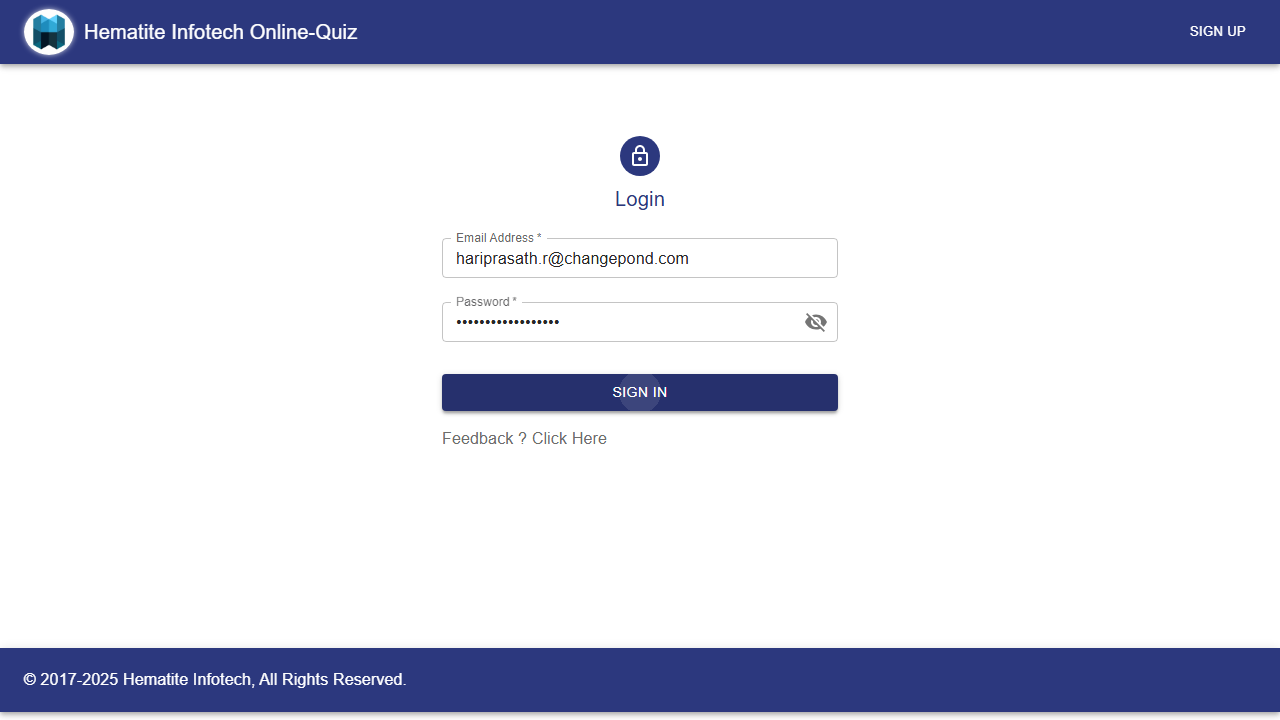
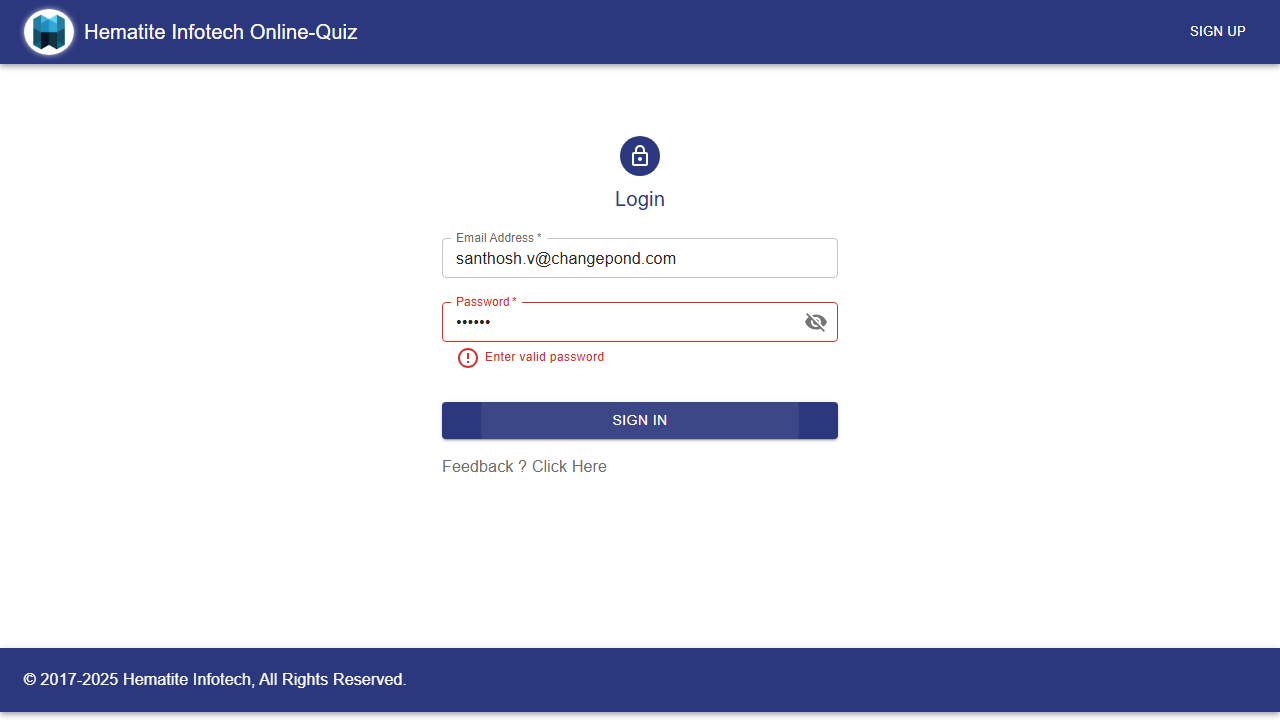
playwright_auth_task

diff --git a/tests/example.spec.ts b/tests/example.spec.ts
@@ -1,80 +1,80 @@
 import { test, expect, Locator } from '@playwright/test';
 import { log } from 'console';
 
-// test('has title', async ({ page }) => {
-//   await page.goto('https://playwright.dev/');
+test('has title', async ({ page }) => {
+  await page.goto('https://playwright.dev/');
 
-//   // Expect a title "to contain" a substring.
-//   await expect(page).toHaveTitle(/Playwright/);
-// });
+  // Expect a title "to contain" a substring.
+  await expect(page).toHaveTitle(/Playwright/);
+});
 
-// test('get started link', async ({ page }) => {
-//   await page.goto('https://playwright.dev/');
+test('get started link', async ({ page }) => {
+  await page.goto('https://playwright.dev/');
 
-//   // Click the get started link.
-//   await page.getByRole('link', { name: 'Get started' }).click();
+  // Click the get started link.
+  await page.getByRole('link', { name: 'Get started' }).click();
 
-//   // Expects page to have a heading with the name of Installation.
-//   await expect(page.getByRole('heading', { name: 'Installation' })).toBeVisible();
-// });
+  // Expects page to have a heading with the name of Installation.
+  await expect(page.getByRole('heading', { name: 'Installation' })).toBeVisible();
+});
 
-// test('check addition of 2 numbers',async({page})=>{
-//   await page.goto('http://127.0.0.1:5500/cal.html')
-//   await page.fill('#num1','5')
-//   await page.fill('#num2','6')
-//   await page.click('#btnadd')
-// const result =await page.textContent('#res');
-// await expect(result?.trim()).toBe('11');
-// });
+test('check addition of 2 numbers',async({page})=>{
+  await page.goto('http://127.0.0.1:5500/cal.html')
+  await page.fill('#num1','5')
+  await page.fill('#num2','6')
+  await page.click('#btnadd')
+const result =await page.textContent('#res');
+await expect(result?.trim()).toBe('11');
+});
 
-// test('check subtraction of 2 numbers',async({page})=>{
-//   await page.goto('http://127.0.0.1:5500/cal.html')
-//   await page.fill('#num1','7')
-//   await page.fill('#num2','4')
-//   await page.click('#btnadd1')
-// const result =await page.textContent('#res');
-// await expect(result?.trim()).toBe('3');
-// });
+test('check subtraction of 2 numbers',async({page})=>{
+  await page.goto('http://127.0.0.1:5500/cal.html')
+  await page.fill('#num1','7')
+  await page.fill('#num2','4')
+  await page.click('#btnadd1')
+const result =await page.textContent('#res');
+await expect(result?.trim()).toBe('3');
+});
 
 
-// test('check multiplication of 2 numbers',async({page})=>{
-//   await page.goto('http://127.0.0.1:5500/cal.html')
-//   await page.fill('#num1','5')
-//   await page.fill('#num2','6')
-//   await page.click('#btnadd2')
-// const result =await page.textContent('#res');
-// await expect(result?.trim()).toBe('30');
-// });
+test('check multiplication of 2 numbers',async({page})=>{
+  await page.goto('http://127.0.0.1:5500/cal.html')
+  await page.fill('#num1','5')
+  await page.fill('#num2','6')
+  await page.click('#btnadd2')
+const result =await page.textContent('#res');
+await expect(result?.trim()).toBe('30');
+});
 
-// test('check division of 2 numbers',async({page})=>{
-//   await page.goto('http://127.0.0.1:5500/cal.html')
-//   await page.fill('#num1','30')
-//   await page.fill('#num2','6')
-//   await page.click('#btnadd3')
-// const result =await page.textContent('#res');
-// await expect(result?.trim()).toBe('5');
-// });
+test('check division of 2 numbers',async({page})=>{
+  await page.goto('http://127.0.0.1:5500/cal.html')
+  await page.fill('#num1','30')
+  await page.fill('#num2','6')
+  await page.click('#btnadd3')
+const result =await page.textContent('#res');
+await expect(result?.trim()).toBe('5');
+});
 
-// test('has heading', async ({ page }) => {
-//   await page.goto('https://www.w3schools.com/html/html_tables.asp');
+test('has heading', async ({ page }) => {
+  await page.goto('https://www.w3schools.com/html/html_tables.asp');
 
-//   // Expect a title "to contain" a substring.
-//   await expect(page).toHaveTitle("HTML Tables");
-// });
-// test('login test',async({page})=>{
-//   await page.goto("http://quiz.hematitecorp.com/#/")
-//   const email:Locator=await page.locator("#email");
-//   const password:Locator=await page.locator("#password")
-//   const submitbtn:Locator=await page.locator("[type=submit]")
+  // Expect a title "to contain" a substring.
+  await expect(page).toHaveTitle("HTML Tables");
+});
+test('login test',async({page})=>{
+  await page.goto("http://quiz.hematitecorp.com/#/")
+  const email:Locator=await page.locator("#email");
+  const password:Locator=await page.locator("#password")
+  const submitbtn:Locator=await page.locator("[type=submit]")
 
-//   await email.fill("hariprasath.r@changepond.com")
-//   await password.fill("HariPrasath25@2002")
-//   await submitbtn.click();
+  await email.fill("hariprasath.r@changepond.com")
+  await password.fill("HariPrasath25@2002")
+  await submitbtn.click();
 
-//   const title=await page.title();
-//   console.log("Home page titile",title);
-//   await page.screenshot({path:"VoucherCode.png"});
-//   expect(title).toEqual("Quiz App");
-//   // browser.close()
+  const title=await page.title();
+  console.log("Home page titile",title);
+  await page.screenshot({path:"VoucherCode.png"});
+  expect(title).toEqual("Quiz App");
+  // browser.close()
   
-// })
+})

diff --git a/tests/browser-context.spec.ts b/tests/browser-context.spec.ts
@@ -1,0 +1,41 @@
+import { Browser, test, BrowserContext, chromium, Page, Locator, expect } from "playwright/test"
+
+test("testing browser context", async () => {
+    const browser: Browser = await chromium.launch({ headless: false, channel: 'chrome' })
+    const browsercontext: BrowserContext = await browser.newContext()
+    const page1: Page = await browsercontext.newPage()
+
+    await page1.goto("http://quiz.hematitecorp.com/#/");
+    const email: Locator = await page1.locator("#email");
+    const password: Locator = await page1.locator("#password")
+    const submitbtn: Locator = await page1.locator("[type=submit]")
+
+    await email.fill("hariprasath.r@changepond.com")
+    await password.fill("HariPrasath25@2002")
+    await submitbtn.click();
+
+    const title = await page1.title();
+    console.log("Home page titile", title);
+    await page1.screenshot({ path: "VoucherCode.png" });
+    expect(title).toEqual("Quiz App");
+
+
+
+    const browsercontext2: BrowserContext = await browser.newContext()
+    const page2: Page = await browsercontext2.newPage();
+
+
+    await page2.goto("http://quiz.hematitecorp.com/#/");
+    const email2: Locator = await page2.locator("#email");
+    const password2: Locator = await page2.locator("#password")
+    const submitbtn2: Locator = await page2.locator("[type=submit]")
+
+    await email2.fill("santhosh.v@changepond.com")
+    await password2.fill("sh@452")
+    await submitbtn2.click();
+
+    const title2 = await page2.title();
+    console.log("Home page titile", title);
+    await page2.screenshot({ path: "VoucherCode.png" });
+    expect(title).toEqual("Quiz App");
+})

diff --git a/tests/locator.spec.ts b/tests/locator.spec.ts
@@ -1,5 +1,5 @@
-import test from "node:test";
-import { Browser, chromium, Locator, Page } from "playwright/test";
+
+import  { Browser,test, chromium, Locator, Page } from "playwright/test";
 
 test('locator test',async()=>{
  const browser:Browser=await chromium.launch({headless:false,channel:'chrome'})
@@ -9,4 +9,35 @@ test('locator test',async()=>{
     //use of id selector
     const fname:Locator = await page.locator('#txt1')
     await fname.fill('Hari')
+    const password:Locator = await page.locator('#txt2')
+    await password.fill('Hari@122')
+    
+    
+    //use of class selector
+    const logo:Locator = await page.locator(".logo");
+    const logoExits =await logo.isEnabled();
+    console.log(logoExits);
+ 
+    const contact:Locator = await page.locator(".txtContact");
+    await contact.fill("8124285250");
+
+     //use of css property and tag name
+    const address:Locator = await page.locator("css=input#textaddress");
+    await address.fill("Sipcot IT park");
+ 
+     const pincode:Locator = await page.locator("css=input#textpincode");
+    await contact.fill("600119");
+
+    const email:Locator=page.locator('xpath=//input[@name="myemail" and @type="email"]')
+    await email.fill("hari@gmail.com")
+    //use of text selector
+    const heading:Locator=await page.locator("text=Registration Form")  
+    const headingExit=await heading.isEnabled();
+    console.log(headingExit);
+    
 })
+
+
+
+
+

diff --git a/tests/auth.spec.ts b/tests/auth.spec.ts
@@ -1,0 +1,18 @@
+import {Browser, BrowserContext, chromium, Page, test} from "playwright/test";
+
+test("auth test",async ()=>{
+   const browser:Browser= await chromium.launch({headless:false,channel: "chrome"})
+   const broswercontext:BrowserContext=await browser.newContext()
+   const page:Page=await broswercontext.newPage();
+
+
+   const userId:string="admin@gmail.com"
+   const userPass:string="admin@123"
+   const authHeader:string="Basic" +btoa(userId+":"+userPass)
+   page.setExtraHTTPHeaders({Authorization:authHeader})
+   await page.goto("http://quiz.hematitecorp.com/")
+//    broswercontext.close()
+//    browser.close()
+
+// await new Promise(()=>{})
+})
